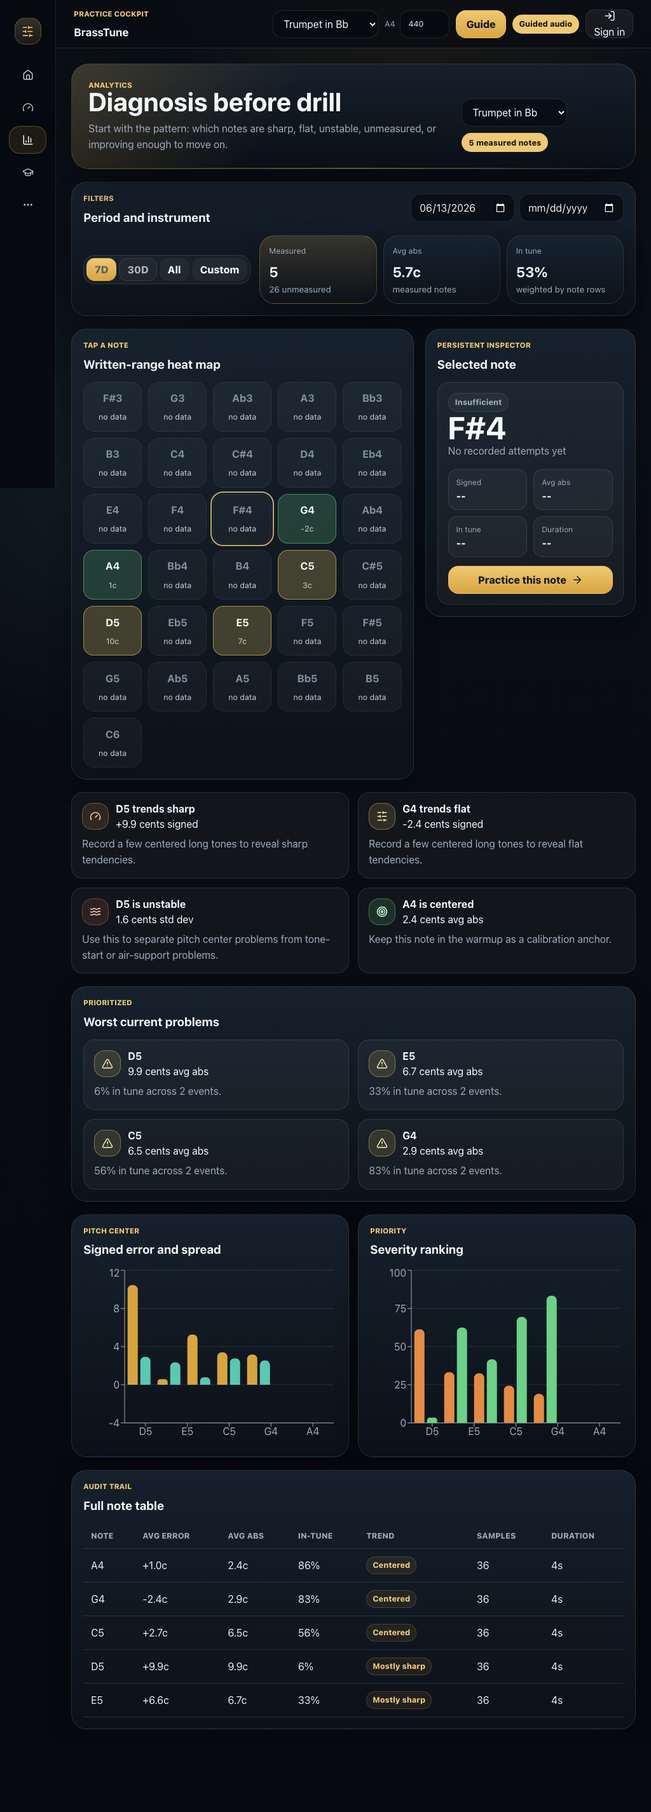
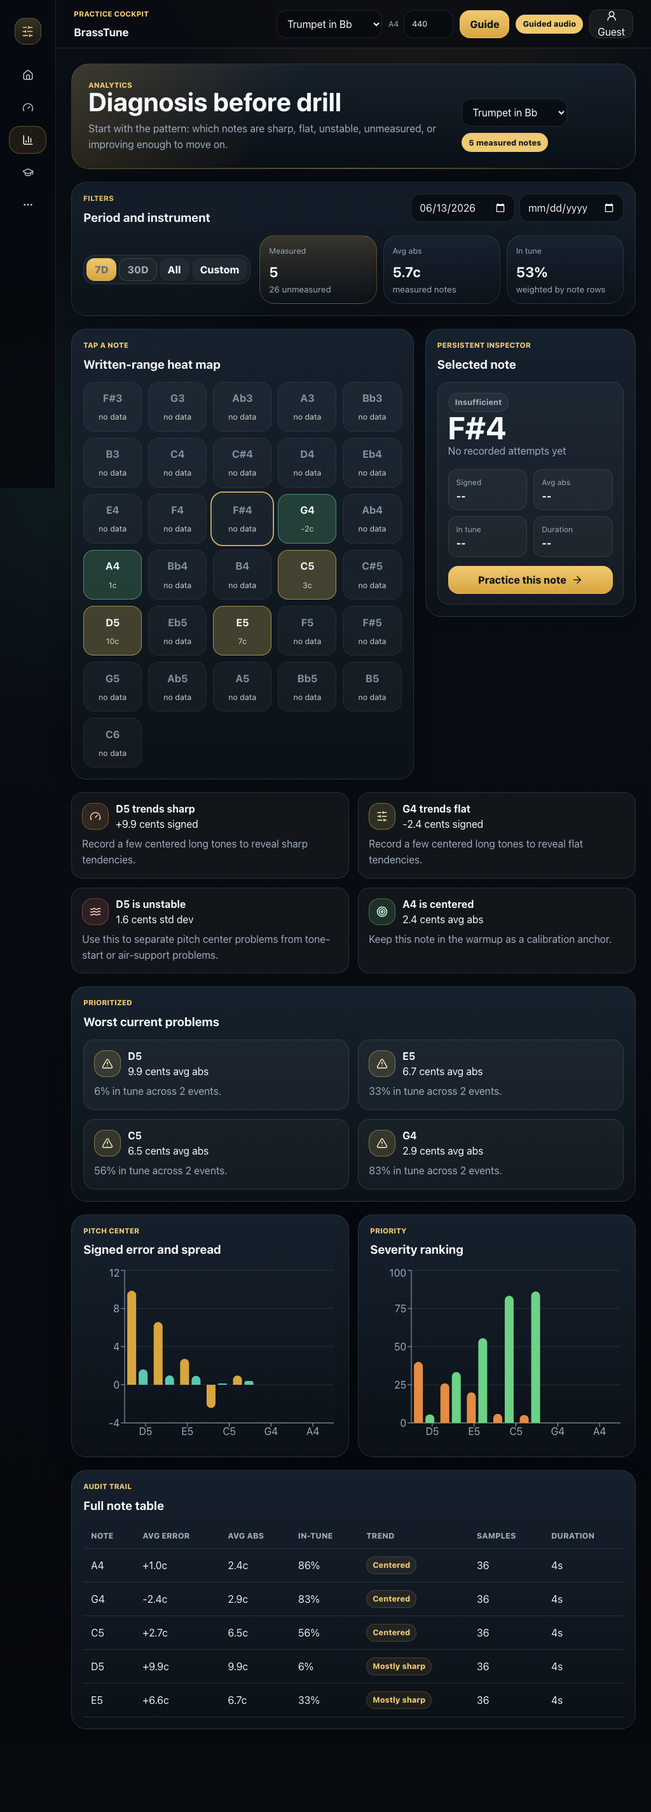
Update release evidence and device snapshots

diff --git a/docs/release-readiness/LOCAL_IMPLEMENTATION_INVENTORY.md b/docs/release-readiness/LOCAL_IMPLEMENTATION_INVENTORY.md
@@ -1,0 +1,108 @@
+# Local Implementation Inventory
+
+Date: 2026-06-20
+Branch: `arya/release-readiness-hardening`
+Starting pushed head: `cd37fee3ef927001e755cb4976cf5d52eb00af72`
+Initial safety backup: `/tmp/brasstune-local-work-20260620-031847`
+Current safety backup: `/tmp/brasstune-local-work-20260620-032819`
+Current safety branch: `backup/local-before-integration-20260620-032819`
+Local implementation commits: backend/security `33b9e8b`; web/metronome/score `080eb4f`
+
+This inventory records local modified and untracked files that existed after the Markdown-only push. Backend and frontend source rows have since been committed locally, but this is not proof of release readiness until the branch is reconciled with `origin/main`, pushed, and verified on the exact pushed SHA. Each row marks whether the file is complete enough to commit, which claim it supports, and the remaining action before final release evidence.
+
+## Source And Test Files
+
+| Path | State | Purpose / Markdown Claim | Current Status | Risk / Next Action | Owner |
+|---|---:|---|---|---|---|
+| `.github/workflows/backend.yml` | Modified | Backend CI uses same dependency floor as local audit | Updated to install with `constraints.txt` | Verify GitHub Actions after push | Backend/CI |
+| `.github/workflows/security.yml` | Modified | Security CI audits runtime and dev dependencies without broad ignores | Updated; old Starlette ignores removed | Verify GitHub Actions after push | Security/CI |
+| `.env.example` | Modified | Documents explicit backend auth mode | Added `BRASSTUNE_AUTH_MODE=disabled` for local example | Ensure production docs explain `disabled` vs `supabase` | Deployment |
+| `render.yaml` | Modified | Render env contract | Adds explicit `BRASSTUNE_AUTH_MODE=disabled` as the current production-safe account-disabled mode | Owner must switch to `supabase` only after provider secrets are configured | Deployment |
+| `backend/requirements.txt` | Modified | Runtime dependency security floor | FastAPI/Starlette/python-dotenv upgraded for Python 3.11+ | CI must verify on pushed SHA | Backend/dependencies |
+| `backend/requirements-dev.txt` | Modified | Dev/test/security dependency security floor | pytest, pip-audit, Bandit pinned to patched floor | CI must verify on pushed SHA | Backend/dependencies |
+| `backend/constraints.txt` | Untracked | Resolver security floor | Added minimum patched constraints | Not a full lockfile; use with requirements in CI | Backend/dependencies |
+| `backend/app/api/auth.py` | Modified | Production auth hardening; no local-auth fallback in production | Explicit `BRASSTUNE_AUTH_MODE=disabled|supabase`, deployed-env validation, service-key preflight | Account deletion durability remains separate blocker | Backend/security |
+| `backend/app/api/websocket.py` | Modified | WebSocket origin gate, first-message auth, no query token, raw message cap | Implemented locally with tests pending rerun | Confirm close behavior in FastAPI/TestClient and browser client compatibility | Backend/security |
+| `backend/app/main.py` | Modified | Startup auth preflight and centralized CORS origins | Lifespan startup uses auth preflight and seed/init | Keep CORS exact-origin docs aligned | Backend/security |
+| `backend/app/schemas/schemas.py` | Modified | Bounded audio and pitch payloads | Implemented validation bounds and Pydantic v2 validators | Consider stricter canonical note recomputation later | Backend/security |
+| `backend/app/services/audio_storage.py` | Modified | Clean Bandit suppression syntax | Runtime behavior unchanged; comments no longer create Bandit warning noise | Low risk | Backend/security |
+| `backend/app/tests/test_hardening.py` | Modified | Regression tests for production startup, WebSocket auth/origin/size, payload caps | Expanded auth-mode matrix; `43 passed` targeted, `59 passed` full backend | CI must verify after push | Backend/testing |
+| `backend/app/core/security.py` | Untracked | Shared environment/auth-mode/origin helper | Implements explicit deployed/local environment and auth-mode rules | Must be tracked with backend hardening | Backend/security |
+| `backend/app/tests/conftest.py` | Untracked | Default local env for backend tests | Local disabled auth mode and CORS configured for tests | Must be tracked with backend tests | Backend/testing |
+| `frontend/src/App.tsx` | Modified | Routes for `/metronome` and `/practice/score` plus bundle splitting | Implemented lazy route loading; main JS dropped to `382.33 kB` | Add CI bundle budget later | Web/product |
+| `frontend/src/components/AppShell.tsx` | Modified | Navigation entries and guest-safe topbar/auth CTA | Implemented local UX changes | Verify no unavailable provider CTA appears in auth-disabled mode | Web/auth |
+| `frontend/src/components/ui/AppPrimitives.tsx` | Modified | Accessibility fixes for selection chips and mobile nav | Implemented | Covered by axe routes after E2E rerun | Web/accessibility |
+| `frontend/src/pages/AnalyticsPage.tsx` | Modified | Guest-safe/offline error state | Implemented local catch path | Add route-level tests for backend-down behavior | Web/product |
+| `frontend/src/pages/AuthPage.tsx` | Modified | Hide auth switcher when providers are unavailable | Implemented | Provider doubles still needed for Google/Apple/email completion | Web/auth |
+| `frontend/src/pages/CoachPage.tsx` | Modified | Guest-safe/offline error state | Implemented local catch path | Add route-level tests for backend-down behavior | Web/product |
+| `frontend/src/pages/MorePage.tsx` | Modified | Secondary navigation includes metronome/score and guest-safe CTA | Implemented | Verify tiny-screen layout with device simulation | Web/product |
+| `frontend/src/pages/PracticePage.tsx` | Modified | Links from live practice to metronome and score practice | Implemented | Does not prove integrated score/tuner/metronome recording timeline | Web/product |
+| `frontend/src/pages/ProgressPage.tsx` | Modified | Guest-safe/offline error state | Implemented local catch path | Add route-level tests for backend-down behavior | Web/product |
+| `frontend/src/pages/SessionReviewPage.tsx` | Modified | Not-found state instead of endless loading | Implemented | Add E2E or unit coverage for missing cloud/guest session | Web/product |
+| `frontend/src/pages/SessionsPage.tsx` | Modified | Guest sessions show instrument context | Implemented | Low risk; verify visual fit on mobile cards | Web/product |
+| `frontend/src/pages/SettingsPage.tsx` | Modified | Preserve guest sessions on preferences clear; guest export fallback; auth-disabled CTA | Implemented | Add tests for guest preservation/export behavior | Web/auth |
+| `frontend/src/domain/metronome.ts` | Untracked | Pure metronome timing helpers | Foundation implemented | Need long-run timing harness, click-bleed tests, recording/page alignment evidence | Audio/metronome |
+| `frontend/src/domain/metronome.test.ts` | Untracked | Unit tests for timing helpers | Implemented local unit coverage | Expand to 10-minute drift/jitter simulation and click-bleed scenarios | Audio/testing |
+| `frontend/src/pages/MetronomePage.tsx` | Untracked | Web metronome UI with Web Audio scheduler | Foundation implemented | Native parity, background behavior, recording alignment, and measured evidence still incomplete | Audio/metronome |
+| `frontend/src/domain/scorePractice.ts` | Untracked | Score import classification and quality heuristics | Adds active-header rejection, verified kind sniffing, decoded-pixel blocking, file-size limits | Still lacks full PDF page inspection and EXIF orientation extraction | Score practice |
+| `frontend/src/domain/scorePractice.test.ts` | Untracked | Unit tests for score import basics | Covers spoofed SVG and decoded-pixel blocking; `5 passed` targeted, included in `29 passed` frontend suite | Add generated PDF/image fixture E2E later | Score testing |
+| `frontend/src/pages/ScorePracticePage.tsx` | Untracked | Score PDF/image/camera import, preview, local IndexedDB confirmation | Adds camera stream attachment, image sanitization before save, saved document reload, and persisted delete | Not full score reader: lacks PDF.js rendering, page thumbnails/reorder/crop/timeline/review/export | Score practice |
+| `frontend/e2e/accessibility.spec.ts` | Modified | Adds metronome and score routes to axe smoke | Implemented | Rerun full local E2E after all changes | QA/accessibility |
+| `frontend/e2e/release-journeys.spec.ts` | Modified | Adds metronome and score routes to route smoke | Implemented | Extend journeys for score import, metronome timing, guest mic fallback | QA/web |
+| `frontend/playwright.config.ts` | Modified | Local backend env for Playwright CORS/auth | Implemented | Revisit after explicit auth-mode config lands | QA/web |
+| `frontend/scripts/device-simulation.mjs` | Modified | Device simulator visits metronome and score routes; sets backend local CORS env | Implemented | Rerun after layout changes; keep generated artifacts intentional | QA/device |
+| `frontend/src/styles/components.css` | Modified | Metronome/score UI styling | Implemented | Visual review needed across mobile/tablet/desktop | Web/design |
+| `frontend/src/styles/responsive.css` | Modified | Mobile/tiny-phone layout fixes for topbar, tabbar, settings, metronome, score | Implemented | Device simulation and screenshots required before final claim | Web/design |
+
+## Generated Device Evidence
+
+These images are intentional only if they correspond to a fresh `npm run simulate:devices` run on the final implementation. They require privacy and visual review before staging.
+
+| Path | State | Purpose / Markdown Claim | Current Status | Risk / Next Action | Owner |
+|---|---:|---|---|---|---|
+| `docs/assets/device-simulation/audio-lab.png` | Modified | Device-simulation evidence | Generated local artifact | Review for stale UI/private data before staging | QA/device |
+| `docs/assets/device-simulation/desktop-analytics-dashboard.png` | Modified | Device-simulation evidence | Generated local artifact | Review for stale UI/private data before staging | QA/device |
+| `docs/assets/device-simulation/desktop-ensemble.png` | Modified | Device-simulation evidence | Generated local artifact | Review for stale UI/private data before staging | QA/device |
+| `docs/assets/device-simulation/desktop-home.png` | Modified | Device-simulation evidence | Generated local artifact | Review for stale UI/private data before staging | QA/device |
+| `docs/assets/device-simulation/desktop-practice.png` | Modified | Device-simulation evidence | Generated local artifact | Review for stale UI/private data before staging | QA/device |
+| `docs/assets/device-simulation/desktop-session-review.png` | Modified | Device-simulation evidence | Generated local artifact | Review for stale UI/private data before staging | QA/device |
+| `docs/assets/device-simulation/ipad-landscape-analytics.png` | Modified | Device-simulation evidence | Generated local artifact | Review for stale UI/private data before staging | QA/device |
+| `docs/assets/device-simulation/ipad-landscape-practice.png` | Modified | Device-simulation evidence | Generated local artifact | Review for stale UI/private data before staging | QA/device |
+| `docs/assets/device-simulation/ipad-portrait-practice.png` | Modified | Device-simulation evidence | Generated local artifact | Review for stale UI/private data before staging | QA/device |
+| `docs/assets/device-simulation/phone-analytics.png` | Modified | Device-simulation evidence | Generated local artifact | Review for stale UI/private data before staging | QA/device |
+| `docs/assets/device-simulation/phone-auth.png` | Modified | Device-simulation evidence | Generated local artifact | Review for stale UI/private data before staging | QA/device |
+| `docs/assets/device-simulation/phone-home.png` | Modified | Device-simulation evidence | Generated local artifact | Review for stale UI/private data before staging | QA/device |
+| `docs/assets/device-simulation/phone-onboarding.png` | Modified | Device-simulation evidence | Generated local artifact | Review for stale UI/private data before staging | QA/device |
+| `docs/assets/device-simulation/phone-practice.png` | Modified | Device-simulation evidence | Generated local artifact | Review for stale UI/private data before staging | QA/device |
+| `docs/assets/device-simulation/phone-session-playback.png` | Modified | Device-simulation evidence | Generated local artifact | Review for stale UI/private data before staging | QA/device |
+| `docs/assets/device-simulation/phone-session-review.png` | Modified | Device-simulation evidence | Generated local artifact | Review for stale UI/private data before staging | QA/device |
+| `docs/assets/device-simulation/tiny-phone-practice.png` | Modified | Device-simulation evidence | Generated local artifact | Review for stale UI/private data before staging | QA/device |
+| `docs/assets/device-simulation/ultrawide-analytics-dashboard.png` | Modified | Device-simulation evidence | Generated local artifact | Review for stale UI/private data before staging | QA/device |
+
+## Codex Setup And Documentation Files
+
+| Path | State | Purpose / Markdown Claim | Current Status | Risk / Next Action | Owner |
+|---|---:|---|---|---|---|
+| `.codex/config.toml` | Untracked | Multi-agent config, `max_threads=8`, `max_depth=1` | Matches upstream intent from `origin/main` | Compare and merge after committing implementation; do not duplicate stale local setup | Release/git |
+| `.codex/agents/artifact_hygiene_reviewer.toml` | Untracked | Project-scoped artifact reviewer | Local setup file | Compare with upstream tracked setup before staging | Release/git |
+| `.codex/agents/backend_security_agent.toml` | Untracked | Project-scoped backend security reviewer | Local setup file | Compare with upstream tracked setup before staging | Release/git |
+| `.codex/agents/data_domain_parity_agent.toml` | Untracked | Project-scoped domain parity reviewer | Local setup file | Compare with upstream tracked setup before staging | Release/git |
+| `.codex/agents/deployment_smoke_agent.toml` | Untracked | Project-scoped deployment smoke reviewer | Local setup file | Compare with upstream tracked setup before staging | Release/git |
+| `.codex/agents/native_ios_agent.toml` | Untracked | Project-scoped native iOS reviewer | Local setup file | Compare with upstream tracked setup before staging | Release/git |
+| `.codex/agents/release_integration_lead.toml` | Untracked | Project-scoped release coordinator | Local setup file | Compare with upstream tracked setup before staging | Release/git |
+| `.codex/agents/web_auth_agent.toml` | Untracked | Project-scoped web/auth reviewer | Local setup file | Compare with upstream tracked setup before staging | Release/git |
+| `docs/codex-agent-setup.md` | Untracked | Documents Codex multi-agent setup | Local setup doc; upstream version exists on `origin/main` | Merge stronger BrassTune rules with upstream tracked doc after implementation commits | Release/docs |
+| `docs/release-readiness/FAILURE_LOG.md` | Modified | Records preservation and recovery state | Updated with backup path and branch pointer | Keep current; include final SHA and any failed checks later | Release/docs |
+| `docs/release-readiness/DOCS_INDEX.md` | Untracked | Canonical Markdown routing | Added current/supporting/historical doc map | Refresh after final validation | Release/docs |
+| `docs/release-readiness/LOCAL_IMPLEMENTATION_INVENTORY.md` | Untracked | Required inventory for this recovery run | Current file | Update after new edits, commits, merge, and final validation | Release/docs |
+| `docs/release-readiness/MASTER_FINDINGS.md` | Modified | Current release decision and blocker source of truth | Rewritten to separate dirty local, committed, CI/hosted, and blocker states | Refresh after push/CI | Release/docs |
+| `docs/release-readiness/WORKSTREAM_OWNERSHIP.md` | Untracked | Multi-agent workstream map | Added workstream/agent/evidence/remaining blocker table | Refresh after final validation | Release/docs |
+
+## Unsupported Or Incomplete Claims
+
+- Web metronome exists locally as a foundation, but long-run timing, click-bleed rejection, recording/page alignment, and native parity are not complete.
+- Score Practice exists locally as import/preview/local confirmation with safer active-header rejection, image sanitization, reload, and delete, but full PDF.js rendering, page count, EXIF orientation extraction, crop/reorder/timeline/review/export, and native parity are not complete.
+- Guest-safe UI and auth-disabled UX are improved locally, but provider completion for Google/Apple/email live flows is not complete.
+- Backend production auth hardening now includes the explicit `BRASSTUNE_AUTH_MODE=disabled|supabase` contract locally, but account deletion durability remains incomplete.
+- Account deletion durability/outbox retry remains incomplete.
+- Native live microphone, native metronome, native score practice, native provider auth, and App Store/TestFlight readiness remain incomplete or externally blocked.

diff --git a/docs/release-readiness/MASTER_FINDINGS.md b/docs/release-readiness/MASTER_FINDINGS.md
@@ -1,39 +1,44 @@
 # Master Findings
 
-Updated: 2026-06-20 UTC.
+Updated: 2026-06-20 UTC
+Branch: `arya/release-readiness-hardening`
+Pushed head at recovery start: `cd37fee3ef927001e755cb4976cf5d52eb00af72`
+Current implementation state: backend/frontend implementation committed locally through `080eb4fb12bfb38b1b3c4e894ae6b204a311eed6`; release docs, `origin/main` reconciliation, push, CI, and hosted exact-SHA verification remain pending
 
-## Current Snapshot
+## Current Source Of Truth
 
-- Branch: `arya/release-readiness-hardening`
-- Local base commit before this run: `1013177ba7056fd8f3fa91b99b233d1adf51ff4c`
-- Merge base with `origin/main`: `652a787c2e643542dfac5911820a2fed01885622`
-- Production deploy state was not changed in this run.
-- Production hosted smoke was reported green by the deployment scout for root, Render health, CORS, and raw WebSocket connectivity. It is not proof that production serves this uncommitted working tree.
-- Final local validation in this run: backend pytest, frontend unit/build/audit, full local browser E2E, device simulation, Swift package tests, Bandit, diff whitespace, large-file scan, secret-name scan, and rendered in-app browser spot checks.
+Use this file with `LOCAL_IMPLEMENTATION_INVENTORY.md` until the implementation is pushed and verified. Older evidence tables in `FINAL_REPORT.md`, `TEST_MATRIX.md`, `BASELINE.md`, `WEB_E2E_REPORT.md`, and `IOS_SIMULATOR_REPORT.md` may describe earlier heads such as `91ca605...` or the Markdown-only `cd37fee...` state.
 
-## Valid Findings Fixed In This Run
+| ID | Area | Severity | Claim | Implementation State | Evidence | Release Status | Next Action |
+|---|---|---:|---|---|---|---|---|
+| MF-001 | Worktree recovery | P0 | Local implementation is preserved. | Preserved twice: `/tmp/brasstune-local-work-20260620-031847` and current `/tmp/brasstune-local-work-20260620-032819`; backup branch pointers created. | Checksums and reverse patch check passed for the current bundle. | Recoverable and partially committed. | Keep backup until branch is pushed and CI has run. |
+| MF-002 | Git integration | P0 | Branch is merge-ready. | False. Backend and frontend implementation are committed locally, but branch still needs release-doc commit, `origin/main` merge, `.codex`/docs setup reconciliation, push, and exact-SHA CI. | Local commits: `33b9e8b`, `080eb4f`; `origin/main` merge not yet performed. | Not mergeable yet. | Commit evidence/docs, then merge `origin/main` and resolve `.codex`/docs setup. |
+| MF-003 | Backend auth mode | P0 | Production auth behavior is explicit. | Implemented in local commit `33b9e8b` with `BRASSTUNE_AUTH_MODE=disabled|supabase`, deployed-env validation, disabled-mode fail-closed private routes, and Supabase service-key startup requirement. | `cd backend && .venv-audit/bin/python -m pytest -q`: `59 passed`. | Local committed evidence only. | Verify CI on pushed SHA. |
+| MF-004 | WebSocket hardening | P1 | WebSocket query-token auth is disabled and origins/messages are bounded. | Implemented locally. | Backend hardening tests cover query-token rejection, bad origin, first-message auth, and oversized raw frames. | Local evidence only. | Add WS control-message schema tests later. |
+| MF-005 | Dependency advisories | P0 | pip-audit is green without broad ignores. | Runtime/dev requirements upgraded to Python 3.11+ security floor: FastAPI `>=0.138`, Starlette `>=1.3.1`, python-dotenv `>=1.2.2`, pytest `>=9.0.3`; Starlette ignores removed from CI. | `.venv-audit/bin/python -m pip_audit --local`: no known vulnerabilities; JSON saved to `/tmp/brasstune-pip-audit.json`. | Local committed evidence only. | CI must audit exact pushed SHA. |
+| MF-006 | Backend deprecations | P2 | Repository-actionable FastAPI/Pydantic warnings are addressed. | Pydantic validators migrated to `field_validator`; startup moved to FastAPI lifespan. | Python 3.9 and 3.12 backend tests pass. | Local evidence only. | Track remaining Python 3.12 `datetime.utcnow` warnings separately. |
+| MF-007 | Score Practice | P1 | Web score practice is a real reader/practice workflow. | Partially true. Import, camera capture, preview, sanitized image save, local restore/delete, route/device smoke, and basic validation exist in local commit `080eb4f`. Full PDF.js rendering, page extraction, crop/reorder/timeline/review/export, and native parity are not complete. | `cd frontend && npm test`: `29 passed`; `npm run build`: passed; `CI=true npm run e2e:local`: `75 passed`; `npm run simulate:devices`: passed. | Web foundation only. | Do not claim full Score Practice complete; add PDF.js/page/timeline work later. |
+| MF-008 | Metronome | P1 | Web metronome exists and is validated. | Web Audio foundation exists in local commit `080eb4f` with helper tests, route, nav, and lazy chunk. Long-run measured timing, click-bleed, recording/page alignment, and native parity are not complete. | Frontend tests/build/E2E/device simulation pass; metronome audit found timing evidence is scheduled-target only. | Web foundation only. | Keep release language scoped; add timing harness later. |
+| MF-009 | Bundle performance | P2 | Heavy routes are split from initial load. | Implemented route-level lazy loading in local commit `080eb4f`. | `npm run build`: main JS dropped from about `907 kB` to `382.33 kB`; score/metronome chunks split. | Local committed evidence only. | Add formal budget to CI later. |
+| MF-010 | Guest mic | P0 | Unsigned guest live mic works without cloud auth. | False. Guided demo and guest local sessions work, but live mic still depends on WebSocket/auth. | Web mic audit found unsigned production mic receives auth-required behavior. | Blocker for guest live mic claim. | Implement local pitch detection or disable live mic until signed in. |
+| MF-011 | Native parity | P0 | Native metronome/score/live mic/provider parity is complete. | False. Native simulator tests pass, but live mic, metronome, score practice, provider-ready auth, signed archive, and physical-device evidence are incomplete. | Native audit: Xcode 26.2 build/unit/UI smoke/Release build passed; gaps remain. | Native engineering parity in progress. | Keep final status scoped; do not claim native complete. |
+| MF-012 | Account deletion durability | P1 | Account deletion is durable and retryable. | False. Existing deletion is not an outbox/retry saga and can split across external/local failures. | Backend/security audits. | Blocker remains. | Implement tombstone/outbox/retry before durable deletion claim. |
+| MF-013 | Hosted/CI evidence | P0 | Latest pushed SHA is green and hosted. | False. `cd37fee...` is Markdown-only; current implementation is unpushed. | No CI/hosted exact-SHA evidence yet. | Pending. | Commit, merge main, push, verify GitHub Actions and current preview. |
 
-| Area | Severity | Finding | Change | Evidence |
-|---|---:|---|---|---|
-| Backend auth | P0 | Production could silently fall back to local dev auth if Supabase config was absent or local auth was explicitly allowed. | `APP_ENV` now defaults to production, production startup requires Supabase URL/key, and production rejects `BRASSTUNE_ALLOW_LOCAL_AUTH`. | `cd backend && .venv/bin/python -m pytest`: `53 passed`. |
-| WebSocket security | P1 | Query-token auth and ungated origins made browser WebSocket sessions harder to constrain. | Query-token auth is disabled, first-message auth is required, and non-local origins must match explicit allowed origins. | Backend hardening tests cover query-token rejection, bad origin, first-message auth, and oversized frames. |
-| Payload validation | P1 | Audio/pitch frames accepted broader unbounded input than necessary. | Pydantic schema constraints now cap strings, arrays, sample rates, numeric ranges, and finite PCM samples. | Backend hardening tests pass. |
-| Guest auth UX | P2 | Auth-disabled builds could still show sign-up/reset links and dead-end topbar CTAs. | Guest-only surfaces now route to practice and hide auth-only switchers when providers are not configured. | `cd frontend && npm test`: `27 passed`; `cd frontend && npm run build`: passed. |
-| Practice tools | P1 | No first-class metronome or score-practice flow existed on web. | Added `/metronome` and `/practice/score`, navigation entries, device simulation coverage, route smoke coverage, and unit tests. | Frontend unit/build passed; full E2E pending after docs sync. |
-| Error states | P2 | Analytics/progress/coach/session-review flows could fail silently or stay in loading states. | Added explicit failure banners and session-not-found recovery. | Frontend unit/build passed. |
-| Accessibility | P2 | Selection chips and mobile primary nav lacked complete pressed/label semantics. | Added `aria-pressed` and mobile nav label. | Frontend unit/build passed. |
-| Mobile layout | P2 | The new metronome/score/settings surfaces could land primary actions under the fixed mobile tab bar on small screens. | Compact screen-scoped headers, mobile settings ordering, and smaller tiny-phone chrome. | `cd frontend && npm run simulate:devices`: passed. |
+## Current Local Validation
 
-## Subagent Findings Kept As Blockers
-
-- Native iOS practice, score capture, auth, analytics, and ensemble flows are not production-equivalent to the web app. Simulator evidence does not prove physical microphone or App Store readiness.
-- Live Supabase email/password, Apple OAuth, reset email, token refresh, account export/delete, storage cleanup, and identity cleanup require disposable live credentials and owner-approved provider setup.
-- Web score practice imports, previews, camera capture, and local IndexedDB confirmation now exist, but full PDF rendering, EXIF stripping, robust magic-byte validation, OMR, score following, crop/retake, and native VisionKit scanning are deferred.
-- Metronome scheduling exists with domain tests and Web Audio lookahead, but no 10-minute measured timing run, physical-device audio bleed test, or recording alignment study was completed.
-- Production CORS regex is not enough for WebSocket origin checks. `CORS_ALLOWED_ORIGINS` must explicitly include production and any owner-approved preview/share origins.
-- The frontend bundle remains above Vite's default chunk warning threshold.
-- `pip-audit` currently reports Starlette `0.49.3`, pytest `8.4.2`, and python-dotenv `1.2.1` advisories. Starlette fixes require versions outside the current FastAPI-compatible range; dependency remediation needs a framework/dependency upgrade pass.
+- `cd backend && .venv/bin/python -m pytest app/tests/test_hardening.py -q`: `43 passed`
+- `cd backend && .venv/bin/python -m pytest -q`: `59 passed`
+- `cd backend && .venv-audit/bin/python -m pytest -q`: `59 passed`
+- `cd backend && .venv-audit/bin/python -m pip_audit --local`: no known vulnerabilities
+- `cd backend && .venv-audit/bin/python -m bandit -q -r app -x app/tests`: passed
+- `cd frontend && npm test`: `29 passed`
+- `cd frontend && npm run build`: passed; initial JS split to `382.33 kB`
+- `cd frontend && CI=true npm run e2e:local`: `75 passed`
+- `cd frontend && npm run simulate:devices`: passed; report updated at `docs/device-simulation-report.md`
 
 ## Release Decision
 
-This working tree improves the closed-beta candidate, but it is not a final release or App Store-ready state. Before a merge/release claim, re-run full local gates, verify latest CI on the exact pushed SHA, run post-deploy production smoke, and close or explicitly accept the external provider/device/legal blockers.
+Current status: `web closed-beta candidate; native engineering parity in progress; external provider/App Store/device gates remaining`.
+
+Do not use `release ready`, `native complete`, `merge ready`, `CI green`, or `hosted verified` until the implementation is committed, merged with current `main`, pushed, and verified on the exact pushed SHA.

diff --git a/docs/release-readiness/WORKSTREAM_OWNERSHIP.md b/docs/release-readiness/WORKSTREAM_OWNERSHIP.md
@@ -1,0 +1,29 @@
+# Workstream Ownership
+
+Date: 2026-06-20
+Branch: `arya/release-readiness-hardening`
+
+This file records the multi-agent workstreams used for the implementation recovery run. Agents were read-only unless explicitly noted by the coordinator.
+
+| Workstream | Agent / Role | Scope | Result | Remaining Blocker |
+|---|---|---|---|---|
+| Coordination and preservation | Coordinator plus release manager | Preserve dirty tree, create backup bundles, avoid destructive Git operations, plan commit/merge sequence | Current-state backup: `/tmp/brasstune-local-work-20260620-032819`; backup branch: `backup/local-before-integration-20260620-032819`; backend/web implementation committed locally | Commit evidence/docs, then merge `origin/main` |
+| Git/release hygiene | Release manager agent | Divergence, Codex setup overlap, artifact/secret/large-file risk | Confirmed branch is behind `origin/main` and `.codex` setup must be reconciled after commits | PR mergeability and CI exact-SHA verification pending |
+| Documentation audit | Docs writer agent | Markdown inventory, stale claims, duplicate docs | Found 60 Markdown files and stale evidence claims; `MASTER_FINDINGS.md` and inventory are current source of truth | Broader docs need final SHA refresh after push |
+| Dependency/security audit | Security auditor agent | Python advisories, Bandit, package migration plan | Migrated to Python 3.11+ dependency floor; local 3.12 pip-audit and Bandit pass | CI must verify pushed SHA |
+| Backend security | Backend security agent | Auth mode, WebSocket auth/origins, payload bounds, deletion durability | Auth/WebSocket/payload hardening improved with tests | Durable account deletion/outbox remains |
+| Web auth and mic | Web auth agent | Guest mic, auth-disabled UX, fallback states | Auth-disabled CTAs are safer; guest live mic remains cloud-auth dependent | Implement local pitch detection or gate live mic |
+| Metronome/audio | Data-domain parity agent | Metronome implementation, timing evidence, native parity | Web metronome foundation exists; lazy route chunk built | Long-run timing, click-bleed, recording alignment, native parity remain |
+| Score practice | Reviewer agent | PDF/image/camera import, file safety, lifecycle | Added safer magic-header checks, image sanitization, local restore/delete | PDF.js reader, page timeline, crop/reorder/export, native parity remain |
+| Native iOS | Native iOS agent | Swift/Xcode/native parity | Xcode 26.2 simulator package/build/unit/UI/Release checks passed | Live mic, metronome, score practice, provider auth, signing, physical devices remain |
+| Deployment smoke | Deployment smoke agent | Vercel/Render production smoke mapping | Prior production smoke showed current production availability, not this unpushed implementation | Hosted preview and CI need exact pushed SHA |
+| Artifact hygiene | Artifact reviewer agent | Screenshots, env files, ignored/generated artifacts | No large-file/LFS issue; env/build/cache artifacts ignored | Device screenshots require final rerun/review before staging |
+
+## Commit Ownership Status
+
+1. Backend/security/dependencies: committed locally as `33b9e8b`.
+2. Web product/performance: committed locally as `080eb4f`.
+3. Device evidence/docs: pending evidence/docs commit after regenerated `npm run simulate:devices` artifacts are staged.
+4. Codex setup reconciliation: merge upstream `.codex` setup with local project-scoped agents after `origin/main` is merged.
+
+No workstream is allowed to claim hosted, CI, native, provider, or physical-device completion without evidence tied to the final pushed SHA.

diff --git a/docs/release-readiness/DOCS_INDEX.md b/docs/release-readiness/DOCS_INDEX.md
@@ -1,0 +1,41 @@
+# Release Readiness Docs Index
+
+Date: 2026-06-20
+Branch: `arya/release-readiness-hardening`
+
+## Canonical Current Files
+
+| Topic | Canonical File | Notes |
+|---|---|---|
+| Current status and release decision | `MASTER_FINDINGS.md` | Source of truth until final pushed SHA is verified. |
+| Local recovery inventory | `LOCAL_IMPLEMENTATION_INVENTORY.md` | Lists dirty/untracked implementation files and known gaps. |
+| Workstream ownership | `WORKSTREAM_OWNERSHIP.md` | Maps multi-agent audits, evidence, and remaining blockers. |
+| Test evidence matrix | `TEST_MATRIX.md` | Must be refreshed after final commit and CI. Treat older counts as historical. |
+| Historical failures | `FAILURE_LOG.md` | Use for prior CI/local failures and recovery backup records. |
+| Final closeout | `FINAL_REPORT.md` | Refresh only after implementation is committed, main is merged, and exact-SHA CI is known. |
+
+## Supporting Docs
+
+| Topic | Files | Status |
+|---|---|---|
+| Web E2E and device simulation | `WEB_E2E_REPORT.md`, `device-simulation-report.md`, `ACCESSIBILITY_BETA_CHECKLIST.md` | Supporting evidence; rerun after final implementation. |
+| Backend/security/privacy | `SECURITY_PRIVACY.md`, `THREAT_MODEL.md`, `AUTH_PROVIDER_SETUP.md`, `LIVE_AUTH_TEST_PLAN.md` | Must stay aligned with explicit `BRASSTUNE_AUTH_MODE` and dependency audit status. |
+| Score practice | `SCORE_PRACTICE_FEATURE.md`, `SCORE_CAPTURE_VALIDATION.md` | Current status is web foundation, not full reader/native parity. |
+| Metronome | `METRONOME_VALIDATION.md` | Current status is web foundation, not measured long-run/native parity. |
+| Native and Apple | `IOS_SIMULATOR_REPORT.md`, `NATIVE_DESIGN_PARITY.md`, `WEB_NATIVE_PARITY_CONTRACT.md`, `APP_STORE_CHECKLIST.md`, `APP_REVIEW_NOTES.md`, `APP_PRIVACY_DRAFT.md`, `TESTFLIGHT_HANDOFF.md` | Simulator evidence exists; App Store/TestFlight/native parity remain blocked. |
+| Beta operations | `CLOSED_BETA_HANDOFF.md`, `BETA_QA_GUIDE.md`, `FRIEND_QA_SCRIPT.md`, `BETA_FEEDBACK_TRIAGE.md` | Keep tester language scoped to web closed-beta candidate. |
+| Deployment and incident handling | `POST_MERGE_PRODUCTION_CHECKLIST.md`, `DEPLOYMENT_ROLLBACK.md`, `INCIDENT_RESPONSE.md`, `HUMAN_ACTIONS.md` | Production deploy was not changed in this run. |
+| Historical baseline | `BASELINE.md`, `FINDINGS.md`, `NEXT_WORK.md` | Useful context, but not current release evidence unless refreshed with final SHA. |
+
+## Duplicate Handling
+
+- `MASTER_FINDINGS.md` owns the current release decision.
+- `FAILURE_LOG.md` owns historical failure narratives.
+- `TEST_MATRIX.md` owns command/result evidence after final validation.
+- `FINAL_REPORT.md` should summarize, not duplicate, the full evidence matrix.
+- `BETA_LOAD_ABUSE_SMOKE.md` and `LOAD_ABUSE_SMOKE.md` overlap; keep one canonical load/abuse procedure in the next docs cleanup.
+- `BETA_QA_GUIDE.md` and `FRIEND_QA_SCRIPT.md` overlap; keep the beta guide canonical and make friend scripts persona-specific.
+
+## Evidence Rule
+
+No document may claim `CI green`, `merge-ready`, `hosted verified`, `native complete`, `production complete`, or `release ready` unless it names the exact Git SHA, command/source, environment, date, and result.

diff --git a/docs/release-readiness/FAILURE_LOG.md b/docs/release-readiness/FAILURE_LOG.md
@@ -10,6 +10,8 @@ Date: 2026-06-18
 | Settings release journey could not find `Export account data` | `cd frontend && npm run e2e:local`, settings legal/export/delete journey | Guest copy changed the existing export button accessible name to `Export guest data` while the route contract expected account-export wording | Restored stable button name while still routing guest users through local guest export | Fixed; full E2E passed |
 | Device simulation reported mobile bottom-nav overlap on metronome, score practice, More, and settings | `cd frontend && npm run simulate:devices` | New dense routes placed primary actions under the fixed mobile tab bar at small viewport heights | Added compact screen-scoped headers, mobile settings profile ordering, and smaller tiny-phone chrome | Fixed; device simulation passed |
 | Mobile demo recording journey reached review page but guest-save proof text was hidden | `cd frontend && npm run e2e:local`, mobile Chromium/WebKit demo recording journey | A broad mobile CSS rule hid all page-header descriptions, including the session review guest-save evidence | Scoped description suppression only to dense metronome, score, settings, and More screens | Fixed; targeted mobile rerun and full E2E passed |
+| Local implementation existed only in the dirty working tree after docs commit `cd37fee3...` | `git status --short --branch`, `git diff --stat`, `git ls-files --others --exclude-standard` on 2026-06-20 | Code, tests, screenshots, and Codex setup files were present locally but not committed to the pushed PR head | Preserved binary unstaged patch, empty staged patch, untracked file list/archive, checksums, and head record at `/tmp/brasstune-local-work-20260620-031847`; created branch pointer `backup/local-before-integration-20260620-031847` | Recoverable; implementation inventory and commit grouping in progress |
+| Recovery worktree moved after the first safety bundle | Release-manager audit compared `/tmp/brasstune-local-work-20260620-031847/unstaged.patch` with the current diff | Backend auth-mode, dependency, docs, env, Render, and score-practice edits happened after the initial preservation snapshot | Created a fresh current-state bundle at `/tmp/brasstune-local-work-20260620-032819`; checksums and reverse patch check passed; created `backup/local-before-integration-20260620-032819` | Recoverable; use the newer backup for current recovery |
 
 | Failure | Reproduction | Root Cause | Resolution | Current Status |
 |---|---|---|---|---|

diff --git a/docs/device-simulation-report.md b/docs/device-simulation-report.md
@@ -1,6 +1,6 @@
 # Device Simulation Report
 
-Generated: 2026-06-20T04:00:55.803Z
+Generated: 2026-06-20T08:47:39.001Z
 
 The committed Playwright harness was used for repeatable multi-viewport browser automation.
 
